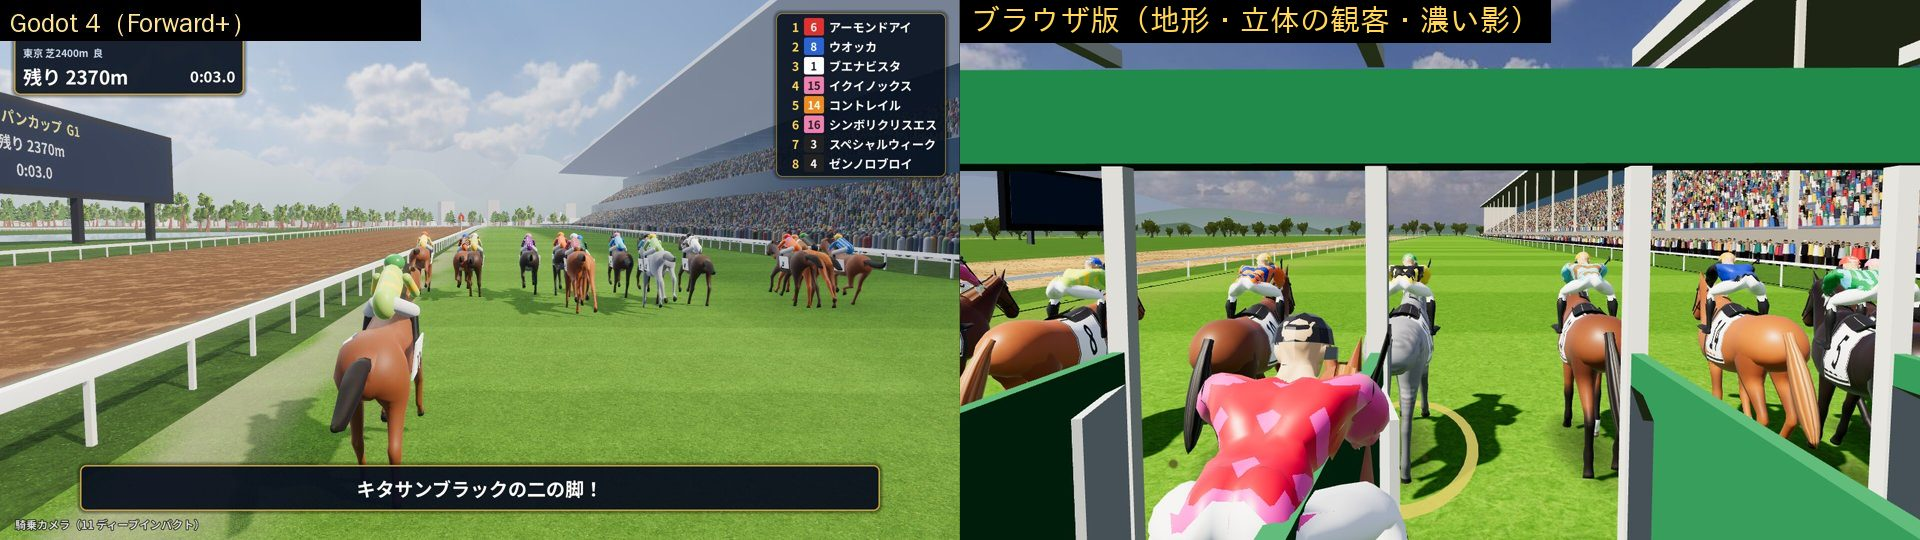
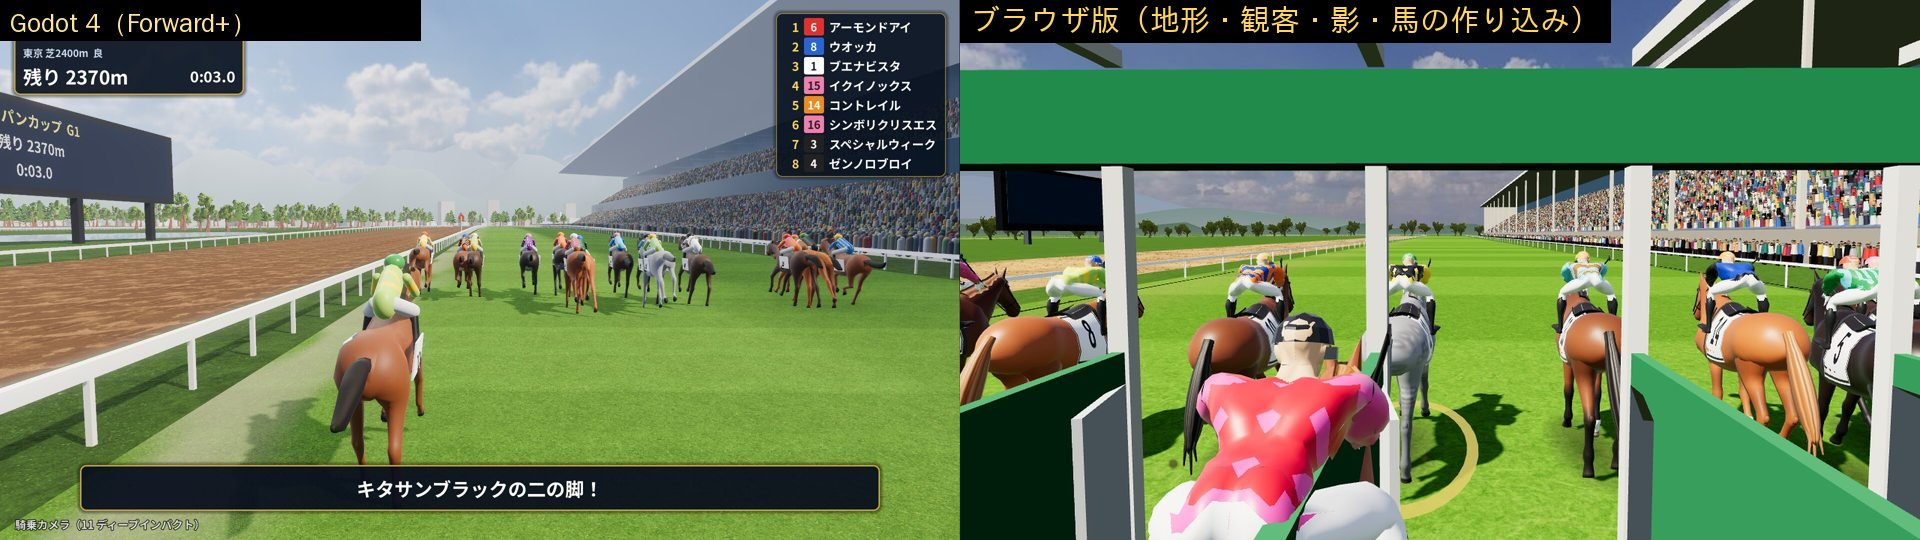
手作りの馬を作り込む（配り役から伝わった依頼：頭と首のつながり・胸から前脚の付け根・球節と飛節と蹄・たてがみと尾の房・走る動き）
- 近くの形の三角形の上限を 6000 に（PC だけ。'look:' の上限も）。遠くの形は同じ
- 胴の断面を細かく取り直し、肩・胸前・上腕・尻から太もも・腰の筋肉のふくらみを面に足す（別の形を貼ると継ぎ目が出るので）
- のどと頬で頭と首をつなぐ。球節・膝・飛節を太く、管は細く、蹄を広く、飛節の後ろの角
- たてがみは輪の間にも輪を足して下の縁を房のようにぎざぎざに。尾は付け根から3本の房
- 走る動き：体の上下と前後の傾き・首の上下を大きく、4本とも浮く間は蹄が 10cm 上がる、手前の側へ少し首を振る
- Builder.add に頂点ごとの uv（uvf）と骨（skinf）を足す
- Godot との見比べを撮り直し、前後の絵を docs/shots/horse3d_v2 に

Claude-Session: https://claude.ai/code/session_01HiyoSLCN7tZdgF4e9KXg2H

diff --git a/js/ui/race3d.js b/js/ui/race3d.js
@@ -328,16 +328,19 @@
     const col = this.c ? lin(o.color || '#ffffff') : null;
     for (let i = 0; i < P.count; i++) {
       V.fromBufferAttribute(P, i).applyMatrix4(m); this.p.push(V.x, V.y, V.z);
+      // o.uvf(P)・o.skinf(P)：頂点の位置から uv と骨（[骨a, 骨b, bの重み]）を決める
+      const uvP = o.uvf ? o.uvf(V) : null, skP = o.skinf ? o.skinf(V) : null;
       if (N) { V.fromBufferAttribute(N, i).applyMatrix3(nm).normalize(); this.n.push(V.x, V.y, V.z); } else this.n.push(0, 1, 0);
       let a = 0, b = 0;
-      if (o.uv) { a = o.uv[0]; b = o.uv[1]; }
+      if (uvP) { a = uvP[0]; b = uvP[1]; }
+      else if (o.uv) { a = o.uv[0]; b = o.uv[1]; }
       else if (T) {
         a = T.getX(i); b = T.getY(i);
         if (o.rect) { a = o.rect[0] + a * (o.rect[2] - o.rect[0]); b = o.rect[1] + b * (o.rect[3] - o.rect[1]); }
       }
       this.uv.push(a, b);
       if (col) this.c.push(col.r, col.g, col.b);
-      if (this.k) this.k.push(o.bone || 0, o.bone || 0, 0);
+      if (this.k) { if (skP) this.k.push(skP[0], skP[1], skP[2]); else this.k.push(o.bone || 0, o.bone || 0, 0); }
     }
     const flip = m.determinant() < 0;
     const cnt = g.index ? g.index.count : P.count;
@@ -414,8 +417,8 @@
   // ---- 馬と騎手の形（全頭で共有） ----
   // 馬の向き：+X が前、+Y が上、+Z が右。地面が y=0。頂点ごとに骨を2本まで混ぜ、関節でなめらかに曲がる
   // 胴・首・頭・脚・尾・たてがみ・騎手は、断面（楕円）を並べてつないだ形（ロフト）で作る
-  // 三角形の数の目安（騎手・鞍・馬具を含む1頭）：近くの形 4,500 まで・遠くの形 2,500 まで（28m で切り替える）。
-  //   16頭がみな近くにいても 7 万ほどで、スマホでも重くならない。形は全頭で共有し、馬ごとに違うのは小さな絵（256×256）だけ
+  // 三角形の数の目安（騎手・鞍・馬具を含む1頭）：近くの形 6,000 まで（PC だけなので）・遠くの形 2,500 まで（28m で切り替える）。
+  //   16頭がみな近くにいても 9 万ほど。形は全頭で共有し、馬ごとに違うのは小さな絵（256×256）だけ
   // 骨：0 根元、1 胴、2・3 首、4 頭、5〜7 尾、8〜11 左前・12〜15 右前（肩・肘・膝・球節）、16〜19 左後・20〜23 右後（股・後膝・飛節・球節）
   //     24 騎手の腰、25 上体、26 頭、27・28 左腕（上・下）、29・30 右腕、31 ムチ、32〜35 馬具（シャドーロール・ブリンカー・メンコ・チークピーシーズ）
   const FJ = [[0.60, 1.26], [0.47, 0.97], [0.485, 0.53], [0.495, 0.215]];   // 前脚の関節：肩・肘・膝・球節
@@ -461,18 +464,18 @@
   ];
   // 脚の断面（上から）：[x, y, 前後の半径, 横の半幅, 骨a, 骨b, bの重み]（骨は肩・股から 0〜3）
   const FLEG_T = [
-    [0.62, 1.34, 0.13, 0.085, 0, 0, 0], [0.58, 1.2, 0.15, 0.095, 0, 0, 0], [0.52, 1.07, 0.13, 0.09, 0, 1, 0.3], [0.48, 0.96, 0.11, 0.082, 0, 1, 0.75],
-    [0.47, 0.86, 0.095, 0.075, 1, 1, 0], [0.474, 0.74, 0.075, 0.064, 1, 1, 0], [0.479, 0.62, 0.056, 0.054, 1, 1, 0], [0.483, 0.55, 0.06, 0.058, 1, 2, 0.35],
-    [0.486, 0.5, 0.058, 0.055, 1, 2, 0.8], [0.488, 0.42, 0.048, 0.044, 2, 2, 0], [0.49, 0.31, 0.047, 0.04, 2, 2, 0], [0.493, 0.24, 0.054, 0.05, 2, 3, 0.4],
-    [0.5, 0.19, 0.055, 0.05, 2, 3, 0.85], [0.52, 0.135, 0.044, 0.043, 3, 3, 0], [0.542, 0.085, 0.048, 0.048, 3, 3, 0], [0.556, 0.04, 0.058, 0.054, 3, 3, 0],
-    [0.566, 0.004, 0.064, 0.058, 3, 3, 0],
+    [0.62, 1.34, 0.13, 0.085, 0, 0, 0], [0.58, 1.2, 0.15, 0.095, 0, 0, 0], [0.52, 1.07, 0.14, 0.095, 0, 1, 0.3], [0.48, 0.96, 0.115, 0.085, 0, 1, 0.75],
+    [0.47, 0.86, 0.095, 0.075, 1, 1, 0], [0.474, 0.74, 0.075, 0.064, 1, 1, 0], [0.479, 0.62, 0.056, 0.054, 1, 1, 0], [0.483, 0.55, 0.066, 0.062, 1, 2, 0.35],
+    [0.486, 0.5, 0.062, 0.058, 1, 2, 0.8], [0.488, 0.42, 0.046, 0.042, 2, 2, 0], [0.49, 0.31, 0.045, 0.039, 2, 2, 0], [0.491, 0.24, 0.062, 0.054, 2, 3, 0.4],
+    [0.498, 0.19, 0.062, 0.055, 2, 3, 0.85], [0.52, 0.135, 0.042, 0.041, 3, 3, 0], [0.545, 0.085, 0.052, 0.05, 3, 3, 0], [0.56, 0.04, 0.062, 0.058, 3, 3, 0],
+    [0.57, 0.004, 0.068, 0.062, 3, 3, 0],
   ];
   const HLEG_T = [
     [-0.66, 1.42, 0.23, 0.12, 0, 0, 0], [-0.64, 1.28, 0.27, 0.145, 0, 0, 0], [-0.61, 1.14, 0.26, 0.14, 0, 0, 0], [-0.6, 1.02, 0.2, 0.115, 0, 1, 0.4],
-    [-0.62, 0.92, 0.14, 0.09, 0, 1, 0.85], [-0.66, 0.82, 0.105, 0.075, 1, 1, 0], [-0.7, 0.71, 0.08, 0.058, 1, 1, 0], [-0.73, 0.63, 0.07, 0.05, 1, 2, 0.2],
-    [-0.745, 0.575, 0.072, 0.055, 1, 2, 0.5], [-0.74, 0.52, 0.06, 0.05, 1, 2, 0.85], [-0.73, 0.44, 0.05, 0.044, 2, 2, 0], [-0.718, 0.32, 0.048, 0.041, 2, 2, 0],
-    [-0.708, 0.24, 0.055, 0.05, 2, 3, 0.4], [-0.7, 0.19, 0.055, 0.05, 2, 3, 0.85], [-0.682, 0.135, 0.045, 0.043, 3, 3, 0], [-0.662, 0.085, 0.048, 0.048, 3, 3, 0],
-    [-0.648, 0.04, 0.057, 0.054, 3, 3, 0], [-0.638, 0.004, 0.062, 0.057, 3, 3, 0],
+    [-0.62, 0.92, 0.14, 0.09, 0, 1, 0.85], [-0.66, 0.82, 0.105, 0.075, 1, 1, 0], [-0.7, 0.71, 0.08, 0.058, 1, 1, 0], [-0.73, 0.63, 0.075, 0.054, 1, 2, 0.2],
+    [-0.745, 0.575, 0.08, 0.06, 1, 2, 0.5], [-0.74, 0.52, 0.062, 0.052, 1, 2, 0.85], [-0.73, 0.44, 0.048, 0.043, 2, 2, 0], [-0.718, 0.32, 0.046, 0.04, 2, 2, 0],
+    [-0.708, 0.24, 0.062, 0.054, 2, 3, 0.4], [-0.7, 0.19, 0.062, 0.055, 2, 3, 0.85], [-0.682, 0.135, 0.043, 0.042, 3, 3, 0], [-0.66, 0.085, 0.05, 0.05, 3, 3, 0],
+    [-0.646, 0.04, 0.06, 0.057, 3, 3, 0], [-0.636, 0.004, 0.066, 0.061, 3, 3, 0],
   ];
   // 尾（付け根から）：[x, y, 上下の半径, 横の半幅, 骨a, 骨b, bの重み]
   const TAIL_T = [
@@ -610,6 +613,23 @@
   });
   const neckPt = (i, th, off) => { const s = NECK[i]; return ellPt(s.c, s.u, vZ(), s.h, s.w, 0.28, 0.95, th, off); };
 
+  // 胴の面の筋肉のふくらみ：[中心 x, y, 長い向きの半径, 短い向きの半径, 長い向きの傾き(rad), 高さ(m), 横を向いた面だけ(1)か前も(0)]
+  const MUSCLES = [
+    [0.6, 1.36, 0.28, 0.1, 1.15, 0.045, 1],    // 肩（き甲から肩の先へ斜め）
+    [0.8, 1.12, 0.13, 0.09, 0.3, 0.05, 0],     // 胸前（前脚の付け根）
+    [0.69, 1.07, 0.1, 0.06, 1.4, 0.028, 1],     // 上腕
+    [-0.64, 1.3, 0.26, 0.17, 1.2, 0.046, 1],   // 尻から太もも
+    [-0.5, 1.56, 0.22, 0.1, 0.1, 0.014, 0],    // 腰の張り
+  ];
+  function muscle(P, c) {
+    const d = P.clone().sub(c); d.x = 0; const l = d.length() || 1; d.multiplyScalar(1 / l);
+    let h = 0;
+    for (const [mx, my, ra, rb, a, amp, side] of MUSCLES) {
+      const dx = P.x - mx, dy = P.y - my, u = dx * Math.cos(a) + dy * Math.sin(a), v = -dx * Math.sin(a) + dy * Math.cos(a);
+      h += amp * Math.exp(-(u * u) / (ra * ra) - (v * v) / (rb * rb)) * (side ? Math.abs(d.z) : 1);
+    }
+    return P.addScaledVector(d, h);
+  }
   // o.noJockey：騎手を描かない（騎手は素材の形で別に描くとき。鐙・手綱・ムチは残す）
   // o.bare：鞍・ゼッケン・鐙・手綱・ムチも描かない（肖像用。頭絡と馬具は残す。騎手も描かない）
   function horseGeometry(q, o) {
@@ -618,11 +638,15 @@
     const X = V3(1, 0, 0), Y = V3(0, 1, 0), Z = V3(0, 0, 1);
     const cell = k => { const uv = cellUV(CELL[k]); return () => uv; };
     const rig = b => [b, b, 0];
-    const mBody = hi ? 16 : 10, mNeck = hi ? 12 : 8, mHead = hi ? 12 : 8, mLeg = hi ? 8 : 6, mTail = hi ? 8 : 5;
+    const mBody = hi ? 20 : 10, mNeck = hi ? 12 : 8, mHead = hi ? 12 : 8, mLeg = hi ? 8 : 6, mTail = hi ? 8 : 5;
 
-    // 胴
-    loft(B, BODY_T.map(([x, top, bot, w, k]) => ell(V3(x, (top + bot) / 2, 0), Y, Z, (top - bot) / 2, w, mBody, k, 0.92)),
-      BODY_T.map(() => rig(1)), (i, j, P) => sideUV(P), { cap0: true, cap1: true });
+    // 胴（近くの形は、肩・胸前・尻の筋肉のふくらみを面に足す）
+    {
+      // 近くの形は断面を細かく取り直す（筋肉のふくらみが面に出るように）
+      const rows = hi ? (() => { const out = [BODY_T[0]], x0 = BODY_T[0][0], x1 = BODY_T[BODY_T.length - 1][0], n = 26; for (let i = 1; i < n; i++) out.push(lerpRow(BODY_T.slice().reverse(), x0 + (x1 - x0) * i / n)); out.push(BODY_T[BODY_T.length - 1]); return out; })() : BODY_T;
+      loft(B, rows.map(([x, top, bot, w, k]) => { const c = V3(x, (top + bot) / 2, 0), r = ell(c, Y, Z, (top - bot) / 2, w, mBody, k, 0.92); return hi ? r.map(P => muscle(P, c)) : r; }),
+        rows.map(() => rig(1)), (i, j, P) => sideUV(P), { cap0: true, cap1: true });
+    }
     // 首
     loft(B, NECK.map(s => ell(s.c, s.u, Z, s.h, s.w, mNeck, 0.28, 0.95)), NECK.map(s => s.sk), (i, j, P) => sideUV(P), { cap0: true, cap1: true });
     // 頭
@@ -646,16 +670,28 @@
       loft(B, ft.map((t, i) => { const s = headSec(Math.max(0, t)); const o = arc(s.c, vHU(), Z, s.h, s.w, s.k, 0.9, Math.PI - 0.38, Math.PI + 0.38, hi ? 4 : 3, 0.02 + (i ? 0 : 0.01)); const n = arc(s.c, vHU(), Z, s.h, s.w, s.k, 0.9, Math.PI + 0.38, Math.PI - 0.38, hi ? 4 : 3, 0.003); return o.concat(n); }),
         ft.map(() => rig(4)), (i, j) => rUV(R_HAIR, 0.1 + (j % 4) * 0.08, 1 - i / 3), { cap1: true });
     }
-    // たてがみ（首の右側に寝る）
+    // たてがみ（首の右側に寝る）。近くの形は輪の間にも輪を足し、下の縁を房のようにぎざぎざに
     {
       const n = hi ? 5 : 3;
       const rings = [], sk = [];
-      for (let i = 1; i < NECK.length; i++) {
-        const lo = Math.PI - 0.72 - 0.08 * hash01(i, 77);
+      const ring = (i, lo, th0, off) => {
         const o = [], inn = [];
-        for (let j = 0; j < n; j++) { const th = Math.PI + 0.1 - (Math.PI + 0.1 - lo) * j / (n - 1); o.push(neckPt(i, th, 0.022 - 0.01 * j / (n - 1))); }
-        for (let j = n - 1; j >= 0; j--) { const th = Math.PI + 0.1 - (Math.PI + 0.1 - lo) * j / (n - 1); inn.push(neckPt(i, th, 0.004)); }
-        rings.push(o.concat(inn)); sk.push(NECK[i].sk);
+        for (let j = 0; j < n; j++) { const th = th0 - (th0 - lo) * j / (n - 1); o.push(neckPt(i, th, off - 0.012 * j / (n - 1))); }
+        for (let j = n - 1; j >= 0; j--) { const th = th0 - (th0 - lo) * j / (n - 1); inn.push(neckPt(i, th, 0.004)); }
+        return o.concat(inn);
+      };
+      for (let i = 1; i < NECK.length; i++) {
+        if (!hi) { rings.push(ring(i, Math.PI - 0.72 - 0.08 * hash01(i, 77), Math.PI + 0.1, 0.022)); sk.push(NECK[i].sk); continue; }
+        // 近くの形：i と i+1 の間を3つに分けて、房の長さを変える
+        const steps = i < NECK.length - 1 ? 3 : 1;
+        for (let q = 0; q < steps; q++) {
+          const a = ring(i, Math.PI - 0.62 - 0.4 * hash01(i * 3 + q, 77), Math.PI + 0.12, 0.03);
+          if (q === 0) { rings.push(a); sk.push(NECK[i].sk); continue; }
+          const b = ring(i + 1, Math.PI - 0.62 - 0.4 * hash01(i * 3 + q, 77), Math.PI + 0.12, 0.03), f = q / steps;
+          rings.push(a.map((P, j) => P.lerp(b[j], f)));
+          const s0 = NECK[i].sk, s1 = NECK[i + 1].sk;
+          sk.push(f < 0.5 ? s0 : s1);
+        }
       }
       loft(B, rings, sk, (i, j) => rUV(R_HAIR, (j % n) / n * 0.45, i / (rings.length - 1)), { cap0: true, cap1: true });
     }
@@ -675,6 +711,27 @@
       loft(B, rows.map(([x, y, h, w]) => ell(V3(x, y, sd * (z0 - (y < 0.9 ? 0.012 * (0.9 - y) : 0))), X, Z, h, w, mLeg, -0.08, 1)),
         rows.map(r => [b0 + r[4], b0 + r[5], r[6]]), (i, j, P) => legUV(k, P), { cap0: true, cap1: true });
     });
+    // 近くの形だけ：飛節の角、頬とのど、たてがみと尾の房（肩・胸前・尻の筋肉は胴の面のふくらみ MUSCLE で）
+    if (hi) {
+      // y0 より上は骨 a、y1 より下は骨 b
+      for (const sd of [-1, 1]) {
+        const h0 = sd < 0 ? 16 : 20;
+        blob(B, V3(-0.795, 0.6, sd * HZ * 0.95), 0.032, 0.05, 0.03, 6, 4, { uvf: P => legUV(sd < 0 ? 2 : 3, P), bone: h0 + 2 }); // 飛節の角
+        // 頬（下あごの丸み）
+        const hc = headSec(0.17).c.clone().addScaledVector(vHU(), -0.055).addScaledVector(Z, sd * 0.042);
+        blob(B, hc, 0.085, 0.085, 0.06, 8, 6, { uv: rUV(R_HEAD, 0.17, 0.25), bone: 4 });
+      }
+      // のど（首と頭のつなぎ）
+      blob(B, V3(1.045, 1.72, 0), 0.1, 0.1, 0.082, 8, 6, { uvf: sideUV, skinf: () => [3, 4, 0.5] }, -0.6);
+      // 尾の房：付け根から3本に分かれて下へ流れる
+      for (const [dz, dy, ext] of [[-0.04, 0.0, 0.16], [0.04, 0.01, 0.12], [0, -0.03, 0.22]]) {
+        const pts = [], rr = [], sks = [];
+        TAIL_T.forEach((r, i) => { if (i < 2) return; const f = (i - 2) / (TAIL_T.length - 3); pts.push(V3(r[0] - 0.01, r[1] + dy * f, dz * f)); rr.push(r[3] * 0.62 * (1 - 0.3 * f)); sks.push([r[4], r[5], r[6]]); });
+        const e = pts[pts.length - 1];
+        pts.push(e.clone().add(V3(-ext * 0.45, -ext, dz * 0.5))); rr.push(0.008); sks.push([7, 7, 0]);
+        tube(B, pts, rr, 4, sks, (i, j, P) => rUV(R_HAIR, 0.5 + (j % 4) * 0.12, 1 - i / (pts.length - 1)), { cap0: true });
+      }
+    }
     if (!bare) {
       // ゼッケン（鞍の下の布。両脇に番号。外から読めるように）
       {
@@ -1047,8 +1104,8 @@
         const front = b0 < 16, K = front ? FK : HK, phi = ((ph - T[b0]) % 1 + 1) % 1;
         for (let i = 0; i < 4; i++) b[b0 + i].rotation.z = k * cyc(K[i], phi);
       }
-      bob = 0.02 * k * cyc(BOB, ph);
-      pitch = 0.05 * k * cyc(PITCH, ph);
+      bob = 0.035 * k * cyc(BOB, ph);
+      pitch = 0.065 * k * cyc(PITCH, ph);
       b[1].position.y = 1.25 + bob;
       b[1].rotation.z = pitch;
       b[1].updateMatrix();
@@ -1062,12 +1119,15 @@
         if (phi < duty) { const w = Math.sin(phi / duty * Math.PI); ws += w; wy += w * y; }
       }
       const al = Math.min(1, ws * 1.5);
-      b[1].position.y -= al * (ws > 0 ? wy / ws : 0) + (1 - al) * (lo - 0.05 * k);
+      b[1].position.y -= al * (ws > 0 ? wy / ws : 0) + (1 - al) * (lo - 0.1 * k); // 4本とも浮く間は蹄が 10cm ほど上がる
       // 首：前脚が着く頃に下げ、後脚で押す頃に上げる。走るほど前へ伸ばす
       const nod = cyc(NOD, ph) * k;
-      b[2].rotation.z = -0.14 * k + 0.09 * nod;
-      b[3].rotation.z = -0.05 * k + 0.06 * nod;
-      b[4].rotation.z = 0.12 * k - 0.1 * nod - pitch;
+      b[2].rotation.z = -0.14 * k + 0.13 * nod;
+      b[3].rotation.z = -0.05 * k + 0.08 * nod;
+      b[4].rotation.z = 0.12 * k - 0.15 * nod - pitch;
+      // 手前の側へ少しだけ首を振る
+      b[2].rotation.y = 0.03 * k * Math.sin(ph * TAU + (H.lead > 0 ? 0 : Math.PI));
+      b[4].rotation.y = -0.6 * b[2].rotation.y;
       // 尾：走ると後ろへ流れる
       b[5].rotation.z = 0.46 - 0.1 * k + 0.05 * Math.sin(ph * TAU * 2 + seed);
       b[6].rotation.z = 0.05 * Math.sin(ph * TAU + 1 + seed); b[7].rotation.z = 0.08 * Math.sin(ph * TAU + 2 + seed);

diff --git a/CHANGELOG.md b/CHANGELOG.md
@@ -9,7 +9,7 @@
 - コースレコードの一覧を、競馬場・芝ダート・距離で絞れるようにした。持ちタイム・馬・騎手・年と、前のレコードとの差を出し、自分が乗って作ったレコードは★と金の帯で目立たせる。レコードを破ったレースは、ゴールの後と掲示板と結果の画面に「RECORD」と前のレコードとの差を出す。
 - 年末のグランドフィナーレの招待を作り直した：G1を勝った自分の馬と前の年の勝ち馬は必ず招待、残りはその年の「ファンの票」（G1の1着100票・G2 50票・G3 30票・好走と1番人気でも増える）の上位16頭。外国の馬は4頭まで。ホームに自分の馬ごとの「資格あり・圏内・圏外（あと何票）」を出す。12月1週に招待が届いたら、出るか出ないかを選び、出るなら招待された馬から1頭（能力・調子・総合力・特殊能力の札）を選ぶ。出ない年もレースは週のまとめから観戦できる。
 - BGM を作り直した：90年代後半のゲーム音楽のような、ブラスとリードシンセが歌うフュージョン・ロック。FM 風のブラスとエレピ、スラップベース、張りのあるスネアとハイハットの刻み、軽い響き。場面ごとに曲を書き下ろした（タイトル・ホーム・パドック・グランドフィナーレのパドック・発走前のファンファーレ・グランドフィナーレのファンファーレ・レース・勝ったとき・負けたとき・成績と表彰）。
-- 3Dのレースの坂とコーナーをコースの実際の形と高さで見せるようにした：地面・ラチ・ハロン棒・スタンド・ゲート・木・池がコースの上り下りに沿い、内馬場と外の地面は高さをなだらかにつなぐ。おにぎり型・直線（新潟の千直）・馬蹄形のコースでも地面と置き物が崩れない。坂では中継のカメラが少し低い望遠になり、騎乗の視点は前の坂がせり上がって見える。観客を立体（1万5千人ほど。服・髪・背の高さがばらばら）にし、馬の影を濃く、ダートを土の塊と蹄の跡のある色に、馬の胸・首・尻・尾を太くした。結果の画面の背景をサッカー場の写真から、このゲームの競馬場のゴール前の絵にした。
+- 3Dのレースの坂とコーナーをコースの実際の形と高さで見せるようにした：地面・ラチ・ハロン棒・スタンド・ゲート・木・池がコースの上り下りに沿い、内馬場と外の地面は高さをなだらかにつなぐ。おにぎり型・直線（新潟の千直）・馬蹄形のコースでも地面と置き物が崩れない。坂では中継のカメラが少し低い望遠になり、騎乗の視点は前の坂がせり上がって見える。観客を立体（1万5千人ほど。服・髪・背の高さがばらばら）にし、馬の影を濃く、ダートを土の塊と蹄の跡のある色にした。馬を作り込んだ：肩・胸前・尻の筋肉のふくらみ、のどと頬で頭と首をつなぎ、球節・飛節の角・蹄を太く、たてがみは房のぎざぎざ、尾は3本の房、走るときの体の上下と首の振りを大きく。結果の画面の背景をサッカー場の写真から、このゲームの競馬場のゴール前の絵にした。
 - 3Dのレースを素材で作り直した：写真の空（晴れ・曇り）と映り込みの光、写真の芝（刈り目の縞・内ラチ沿いの荒れ）とダートの砂、本物の木の板絵、遠くの霞、太陽の影、色の調子（ACES）。騎手は人の形の素材にし、勝負服の柄・帽子・ゴーグル・白いズボン・長靴を着せて、追う・ムチ・ガッツポーズに体ごと合わせる。ダートは砂けむりと砂粒、芝は土くれが蹄の後ろに舞う。スタンドの前に立ち見の観客を足した。馬の画面と店・厩舎の馬の絵も、3D の馬（毛色・白徴・馬具つき）をパドックで描いた絵にした。重い端末では影→画素の細かさの順に自動で落とす（素材はすべて CC0。出典は assets/CREDITS.md）。
 - 画面をゲームらしく派手にした：タイトル・ホーム・馬の店・パドック・結果に大きな背景の写真（Poly Haven の CC0 素材）を敷き、タイトルは大きな題字と駆け抜ける馬群で、クリック・Enter・ゲームパッドでメニューが出る。ホームのコマンドと押せる物を厚みのある札に、馬の店は毛色の肖像・総合力・値段の札を一行ずつ並べ、画面を替えると金の光がよぎって中身が入ってくる。重賞を勝ったとき・トロフィーを手にしたとき・スペシャルホースを破ったときは、光の筋と紙吹雪と大きな題字で見せる（動きを減らす設定の端末では止める）。メニューは十字キー・矢印キーで選べ、選んでいる札が金に光る（Enter・A で押す、Esc・B で閉じる・もどる）。1600px 以上の画面では列を広げる。
 - 騎乗中の短い合図を英語にした（START・GOOD START・LATE START・視点の名前・1st などの着順）。

diff --git a/docs/shots/terrain3d/README.md b/docs/shots/terrain3d/README.md
@@ -9,3 +9,5 @@
 - `dirt_*`：東京 ダート1600（土の塊と蹄の跡・影）
 - `compare_*`：左が Godot の試作（docs/shots/compare の左半分）、右がこの枝のブラウザ版。同じ東京 芝2400 の同じ場面（馬の並びは別の模擬）
 - `result_bg.jpg`：結果の画面の背景にした止め絵（assets/ui_bg_result.js）
+
+馬の作り込み（区切り2）：`docs/shots/horse3d_v2/before_after.jpg`（左が前・右が後。横からの襲歩6コマ・頭と首・脚・後ろ・肖像）と `portrait.jpg`。`compare_*` はこの区切りで撮り直した。
